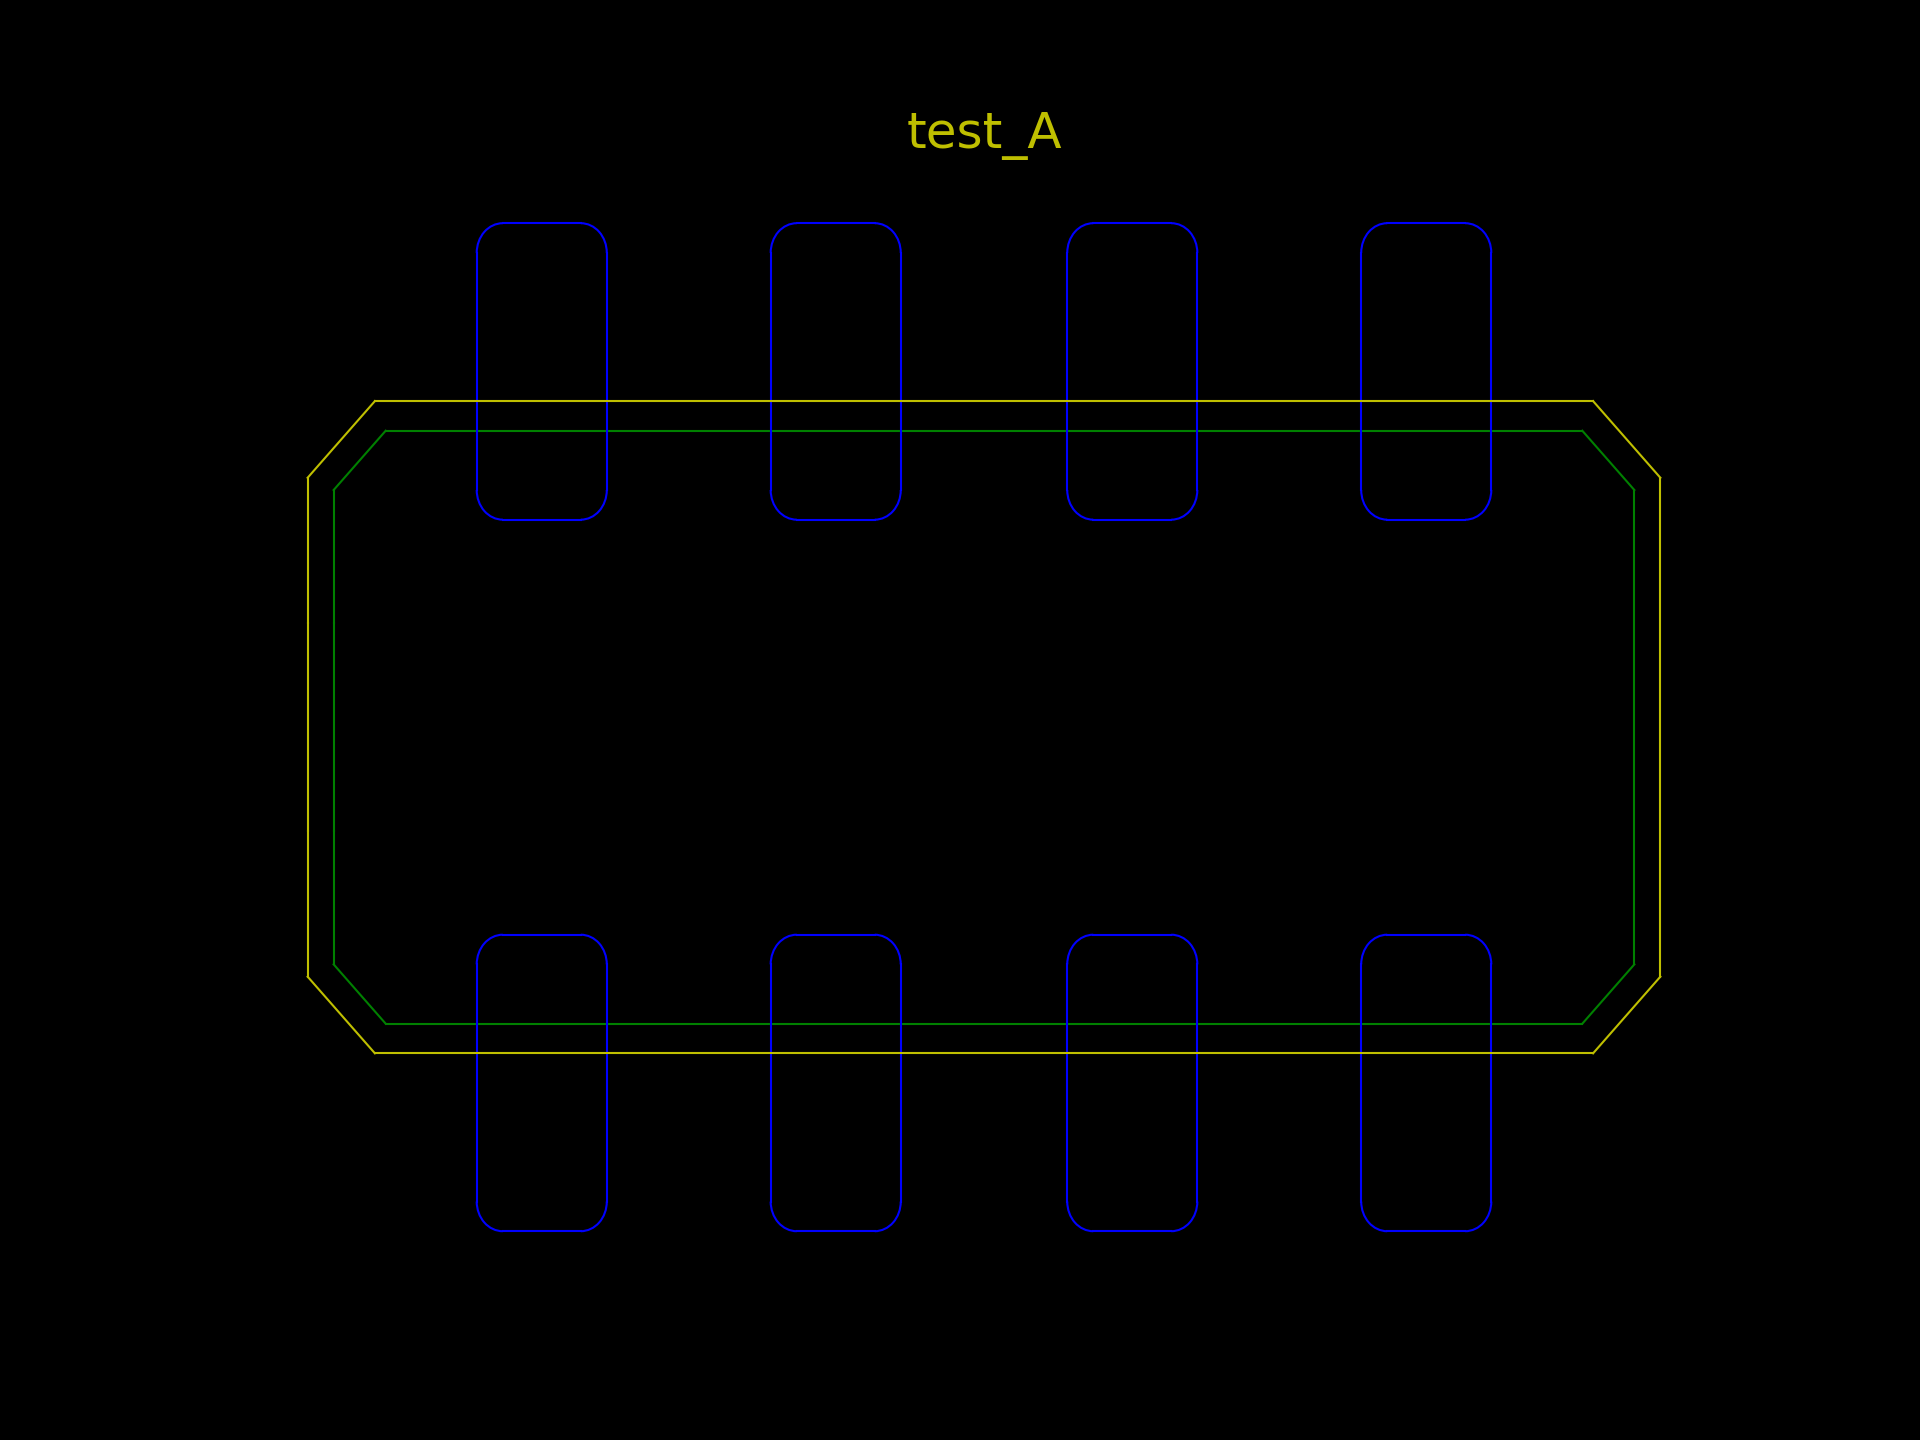
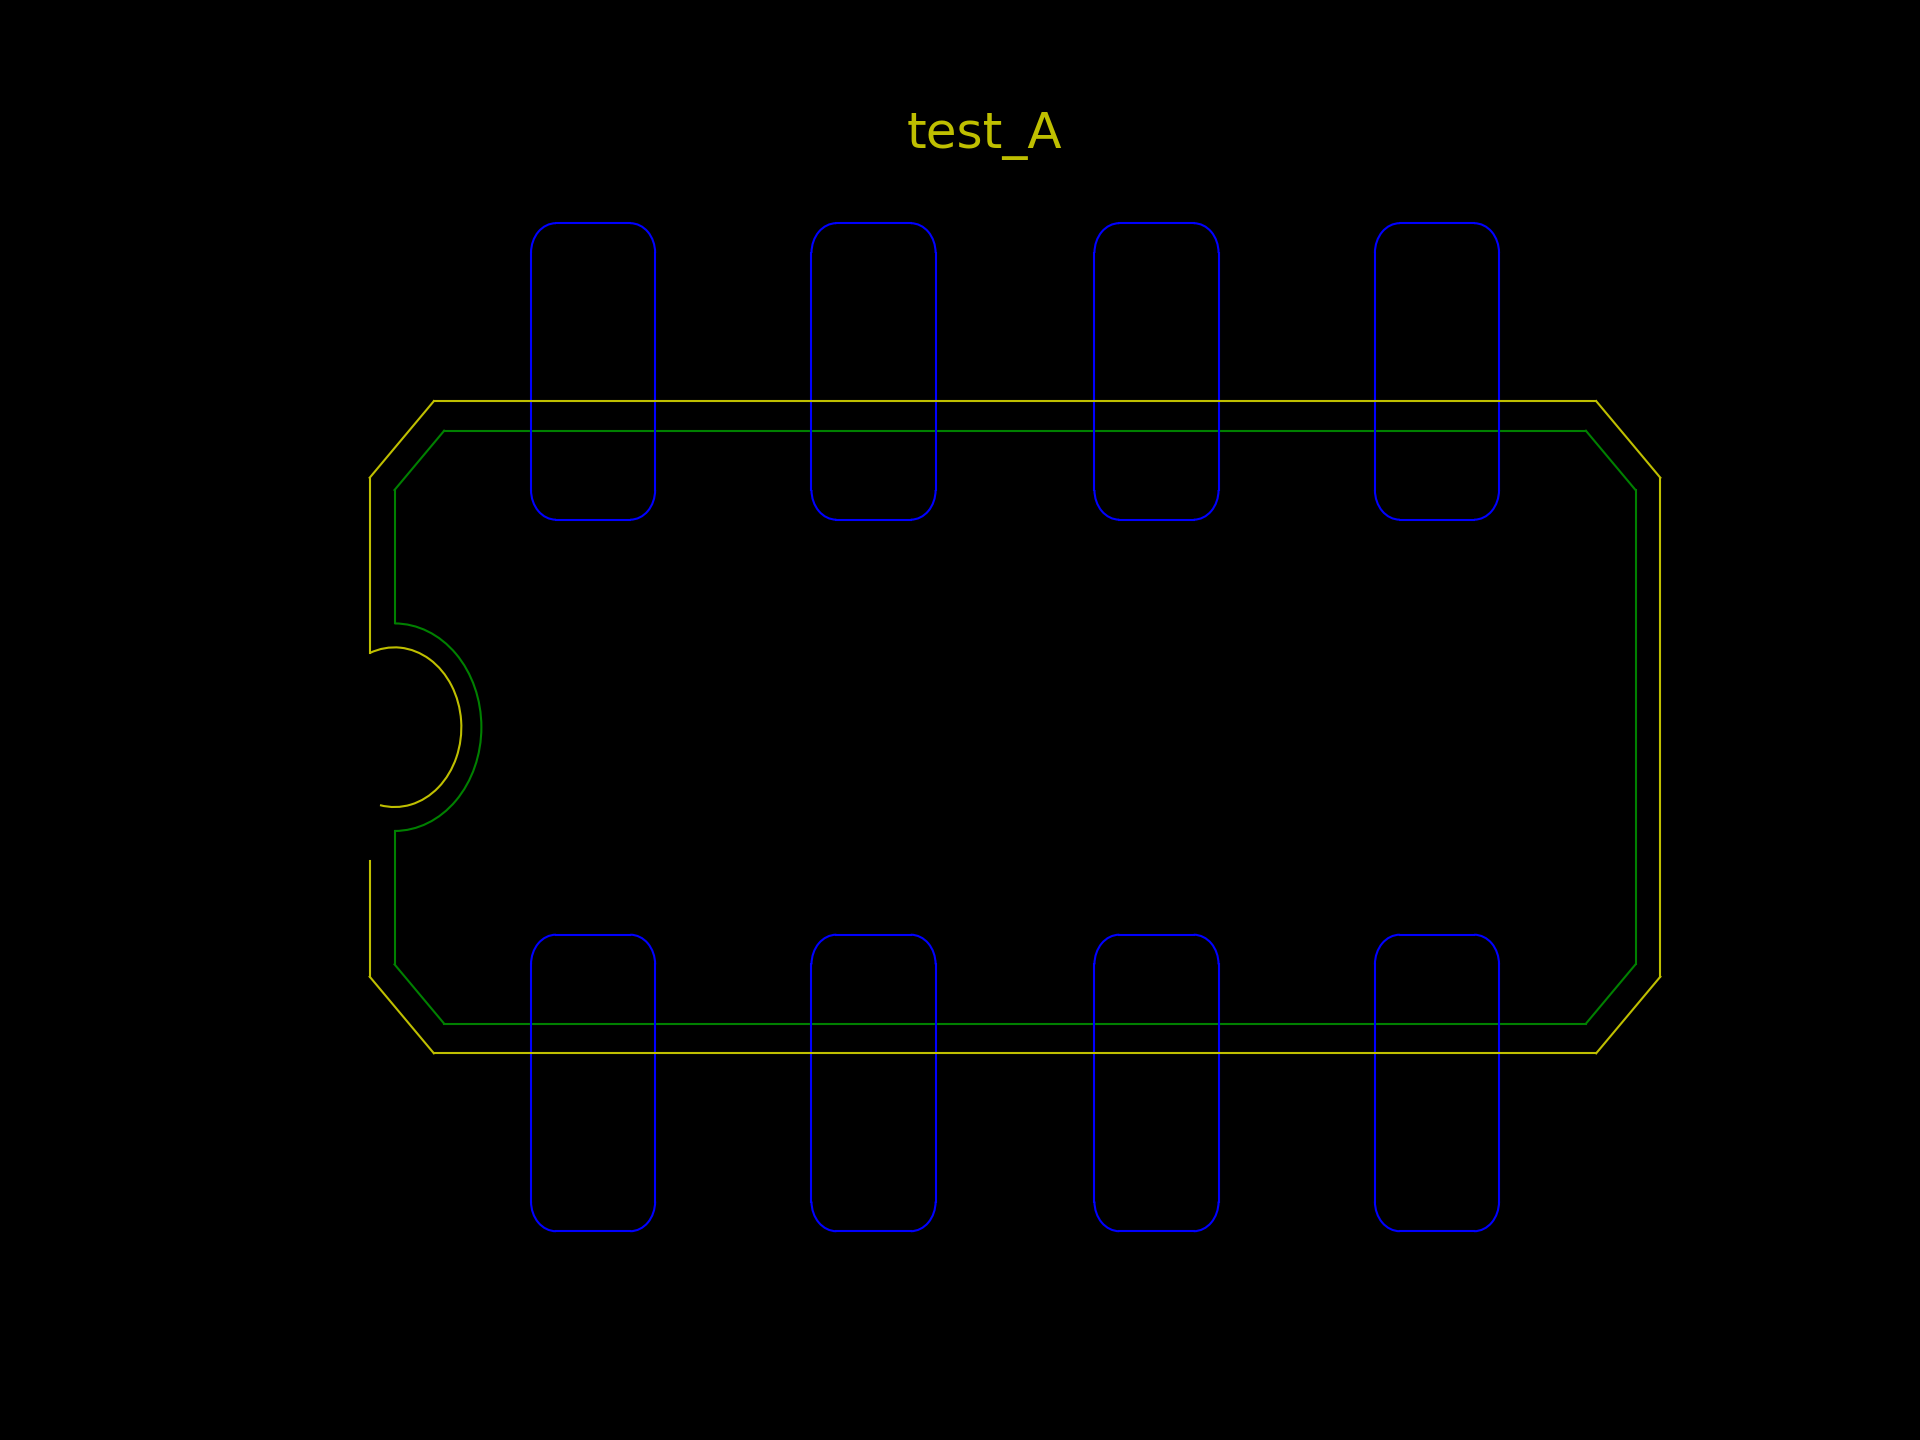
processing Arc

diff --git a/main.cpp b/main.cpp
@@ -31,12 +31,15 @@ struct segment
     float center_x;
     float center_y;
     bool direction; // 0 = ClockWise(CW), 1 = ConterClockwise(CCW)
+    double theta_1; // 圓心到點一角度
+    double theta_2; // 圓心到點二角度
 };
 
 struct Point
 {
     float x;
     float y;
+    bool Next_Arc; // if the point connected to arc
 };
 
 float File_to_Parameter(const string);
@@ -159,6 +162,8 @@ segment String_to_Line(string line)
         part.slope = 0;
         part.y_intercept = 0;
         part.theta = 0;
+        part.theta_1 = atan2(part.y1 - part.center_y, part.x1 - part.center_x);
+        part.theta_2 = atan2(part.y2 - part.center_y, part.x2 - part.center_x);
     }
     return part;
 }
@@ -237,7 +242,6 @@ vector<Point> Line_to_Point(const vector<segment> Assembly) //將線段切割成
     const int size = Assembly.size();
     vector<Point> Point_Vector;
     segment first_line, second_line;
-    double first_angle, second_angle;
     Point Point_Overlap; //兩線段交點
 
     for (size_t i = 0; i < size; i++)
@@ -275,13 +279,23 @@ vector<segment> Silkscreen_Buffer(const vector<segment> Assembly) //產生絲印
     for (size_t i = 0; i < size; i++)
     {
         segment first_line, second_line;
+        double first_angle, second_angle;
         first_line = Assembly[i];
         if (i != size - 1)
             second_line = Assembly[i + 1];
         else
             second_line = Assembly[0];
-        double first_angle = atan2(first_line.y2 - first_line.y1, first_line.x2 - first_line.x1); //不可用斜率
-        double second_angle = atan2(second_line.y2 - second_line.y1, second_line.x2 - second_line.x1);
+
+        if (first_line.is_line) // line
+            first_angle = first_line.theta;
+        else // arc
+            first_angle = (first_line.direction) ? first_line.theta_1 - PI / 2 : first_line.theta_1 + PI / 2;
+
+        if (second_line.is_line) // line
+            second_angle = second_line.theta;
+        else // arc
+            second_angle = (second_line.direction) ? second_line.theta_1 - PI / 2 : second_line.theta_1 + PI / 2;
+
         if (Assembly_Points[i].x == first_line.x1 && Assembly_Points[i].y == first_line.y1) // 向量共同點校正
         {
             first_angle -= PI;
@@ -294,7 +308,6 @@ vector<segment> Silkscreen_Buffer(const vector<segment> Assembly) //產生絲印
             if (first_angle < -PI)
                 first_angle += 2 * PI;
         }
-
         double Angle_Divided = (first_angle + second_angle) / 2;                    //角平分線的角度
         float Bisector_Slope = tan(Angle_Divided);                                  //角平分線
         double Point_Extend_Range = assemblygap / sin(Angle_Divided - first_angle); //點外擴距離
@@ -304,6 +317,9 @@ vector<segment> Silkscreen_Buffer(const vector<segment> Assembly) //產生絲印
         Extend_1.y = Assembly_Points[i].y + Point_Extend_Range * sin(Angle_Divided);
         Extend_2.x = Assembly_Points[i].x - Point_Extend_Range * cos(Angle_Divided);
         Extend_2.y = Assembly_Points[i].y - Point_Extend_Range * sin(Angle_Divided);
+
+        Extend_1.Next_Arc = (second_line.is_line) ? false : true;
+        Extend_2.Next_Arc = (second_line.is_line) ? false : true;
 
         //點是否在圖型外
         Outside_1 = Outside_of_Assembly(Extend_1, Assembly); // true for outside, false for inside
@@ -316,7 +332,7 @@ vector<segment> Silkscreen_Buffer(const vector<segment> Assembly) //產生絲印
     }
     for (size_t i = 0; i < size; i++) // for line
     {
-        A_Line.is_line = true;
+        A_Line.is_line = (Extended_Points[i].Next_Arc) ? false : true;
         A_Line.x1 = Extended_Points[i].x;
         A_Line.y1 = Extended_Points[i].y;
         if (i != size - 1)
@@ -329,9 +345,30 @@ vector<segment> Silkscreen_Buffer(const vector<segment> Assembly) //產生絲印
             A_Line.x2 = Extended_Points[0].x;
             A_Line.y2 = Extended_Points[0].y;
         }
-        A_Line.slope = (A_Line.y2 - A_Line.y1) / (A_Line.x2 - A_Line.x1);
-        A_Line.y_intercept = A_Line.y1 - A_Line.slope * A_Line.x1;
-        A_Line.center_x = A_Line.center_y = A_Line.direction = 0;
+        if (A_Line.is_line)
+        {
+            A_Line.slope = (A_Line.y2 - A_Line.y1) / (A_Line.x2 - A_Line.x1);
+            A_Line.y_intercept = A_Line.y1 - A_Line.slope * A_Line.x1;
+            A_Line.center_x = A_Line.center_y = A_Line.direction = 0;
+        }
+        else
+        {
+            A_Line.slope = A_Line.y_intercept = A_Line.theta = 0;
+            if (i != size - 1)
+            {
+                A_Line.center_x = Assembly[i + 1].center_x;
+                A_Line.center_y = Assembly[i + 1].center_y;
+                A_Line.direction = Assembly[i + 1].direction;
+            }
+            else
+            {
+                A_Line.center_x = Assembly[0].center_x;
+                A_Line.center_y = Assembly[0].center_y;
+                A_Line.direction = Assembly[0].direction;
+            }
+            A_Line.theta_1 = atan2(A_Line.y1 - A_Line.center_y, A_Line.x1 - A_Line.center_x);
+            A_Line.theta_2 = atan2(A_Line.y2 - A_Line.center_y, A_Line.x2 - A_Line.center_x);
+        }
         Silkscreen.push_back(A_Line);
     }
     return Silkscreen;
@@ -383,7 +420,7 @@ void Write_File(const vector<segment> Silkscreen)
         }
         else
         {
-            Output << "Arc," << fixed << setprecision(4) << Silkscreen[i].x1 << "," << Silkscreen[i].y1 << "," << Silkscreen[i].x2 << "," << Silkscreen[i].y2 << "," << Silkscreen[i].center_x << "," << Silkscreen[i].center_y << (Silkscreen[i].direction ? "CCW" : "CW") << endl;
+            Output << "arc," << fixed << setprecision(4) << Silkscreen[i].x1 << "," << Silkscreen[i].y1 << "," << Silkscreen[i].x2 << "," << Silkscreen[i].y2 << "," << Silkscreen[i].center_x << "," << Silkscreen[i].center_y << "," << (Silkscreen[i].direction ? "CCW" : "CW") << endl;
         }
     }
 }

diff --git a/README.md b/README.md
@@ -79,6 +79,12 @@ Point
 
 ## Algorithms
 
+2022/5/27
+
+start processing arc, have some issue.(see test_A pic)
+
+Peter Raymond
+
 2022/5/26
 
 fix the bugs in functions, still some weird bugs to go on. (a point is not correct)
